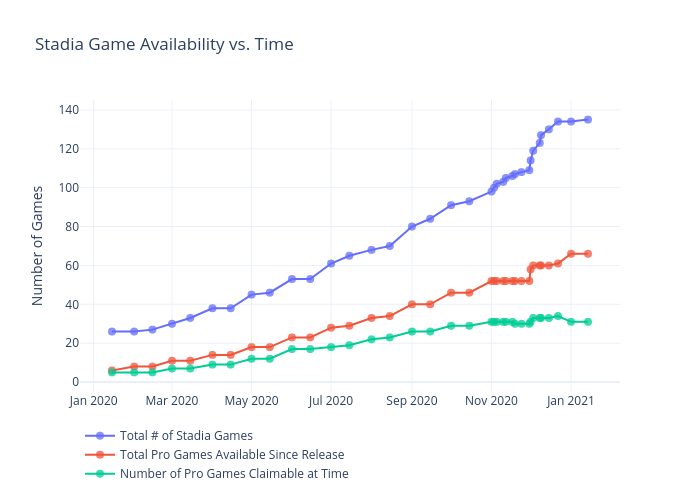
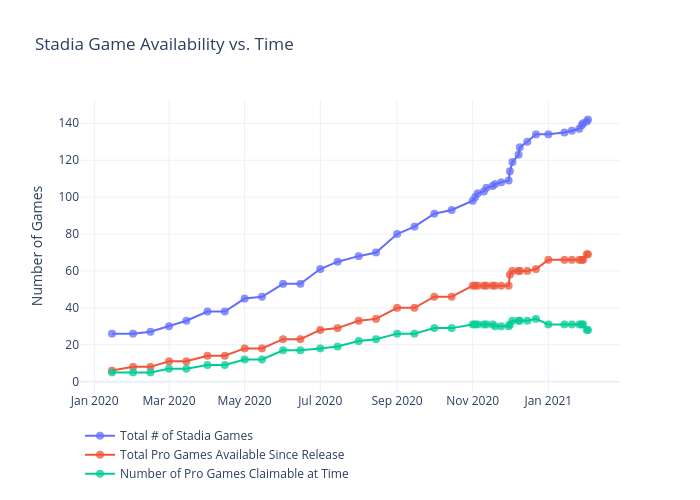
Add files via upload

diff --git a/games/figure.js b/games/figure.js
@@ -50,7 +50,11 @@ var figure = {
                 "2021-01-01",
                 "2021-01-14",
                 "2021-01-20",
-                "2021-01-21"
+                "2021-01-26",
+                "2021-01-28",
+                "2021-01-29",
+                "2021-02-01",
+                "2021-02-02"
             ],
             "ysrc": "jdeslip:358:e03fe9",
             "y": [
@@ -92,7 +96,11 @@ var figure = {
                 "134",
                 "135",
                 "136",
-                "137"
+                "137",
+                "139",
+                "140",
+                "141",
+                "142"
             ],
             "marker": {
                 "size": 8,
@@ -152,7 +160,11 @@ var figure = {
                 "2021-01-01",
                 "2021-01-14",
                 "2021-01-20",
-                "2021-01-21"
+                "2021-01-26",
+                "2021-01-28",
+                "2021-01-29",
+                "2021-02-01",
+                "2021-02-02"
             ],
             "ysrc": "jdeslip:358:5f7e72",
             "y": [
@@ -193,8 +205,12 @@ var figure = {
                 "61",
                 "66",
                 "66",
-                66,
-                66
+                "66",
+                "66",
+                "66",
+                "66",
+                "69",
+                "69"
             ],
             "marker": {
                 "size": 8,
@@ -254,7 +270,11 @@ var figure = {
                 "2021-01-01",
                 "2021-01-14",
                 "2021-01-20",
-                "2021-01-21"
+                "2021-01-26",
+                "2021-01-28",
+                "2021-01-29",
+                "2021-02-01",
+                "2021-02-02"
             ],
             "ysrc": "jdeslip:358:81d550",
             "y": [
@@ -295,8 +315,12 @@ var figure = {
                 "34",
                 "31",
                 "31",
-                31,
-                31
+                "31",
+                "31",
+                "31",
+                "31",
+                "28",
+                "28"
             ],
             "marker": {
                 "size": 8,
@@ -314,8 +338,8 @@ var figure = {
         "xaxis": {
             "type": "date",
             "range": [
-                "2019-12-22 23:59:11.214",
-                "2021-02-13 00:00:48.786"
+                "2019-12-22 06:10:46.4145",
+                "2021-02-25 17:49:13.5855"
             ],
             "title": {
                 "text": ""
@@ -325,8 +349,8 @@ var figure = {
         "yaxis": {
             "type": "linear",
             "range": [
-                -4.450346420323326,
-                146.4503464203233
+                -4.808314087759815,
+                151.8083140877598
             ],
             "title": {
                 "text": "Number of Games"
